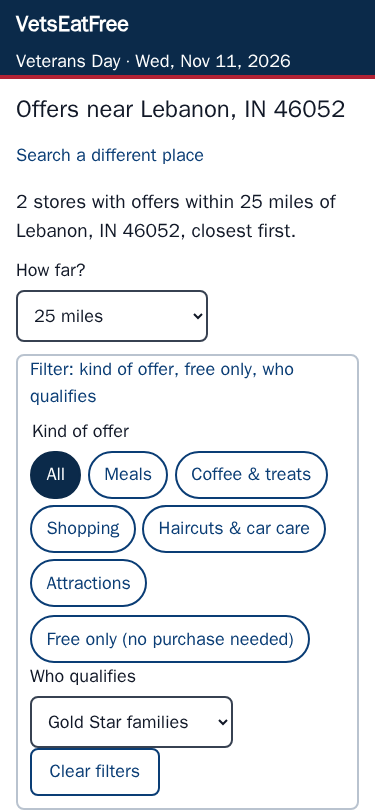
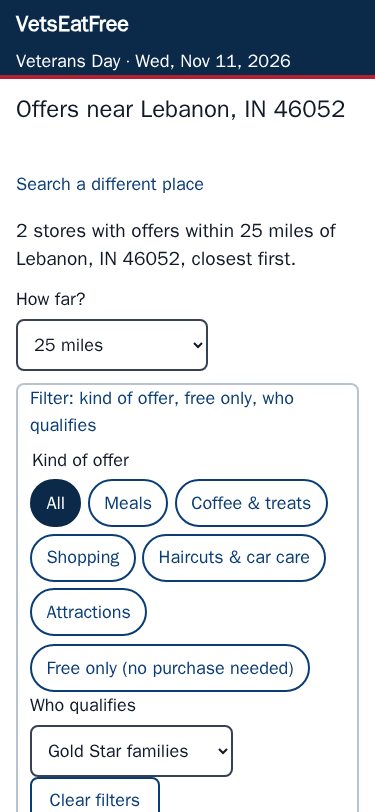
F18: 2.5 s results on Slow 4G, Lighthouse 100/100, WebKit and Safari 14 fallbacks

Changed region(s): [[0.0293, 0.1847, 0.968, 1.0], [0.9387, 0.431, 0.968, 0.4926], [0.8213, 0.7081, 0.8507, 0.7389]]

diff --git a/pipeline/static/css/site.css b/pipeline/static/css/site.css
@@ -54,7 +54,8 @@ body {
 img { max-width: 100%; }
 a { color: var(--link); text-underline-offset: 0.15em; }
 a:hover { text-decoration-thickness: 2px; }
-:focus-visible { outline: 3px solid var(--focus); outline-offset: 2px; }
+:focus { outline: 3px solid var(--focus); outline-offset: 2px; }
+:focus:not(:focus-visible) { outline: none; }  /* browsers without :focus-visible keep the ring */
 h1, h2, h3 { line-height: 1.2; margin: 0 0 0.5rem; }
 h1 { font-size: 1.75rem; }
 h2 { font-size: 1.4rem; margin-top: 0.5rem; }
@@ -77,10 +78,10 @@ p { margin: 0 0 0.75rem; }
 
 /* Header and footer */
 .site-header { background: var(--navy); color: var(--navy-fg); border-bottom: 4px solid var(--red); }
-.header-row { display: flex; flex-wrap: wrap; align-items: center; gap: 0 1rem; min-height: 3.5rem; }
+.header-row { display: flex; flex-wrap: wrap; align-items: center; min-height: 3.5rem; }
 .brand {
   color: var(--navy-fg); font-weight: 800; font-size: 1.35rem; text-decoration: none;
-  display: inline-flex; align-items: center; min-height: 48px;
+  display: inline-flex; align-items: center; min-height: 48px; margin-right: 1rem;
 }
 .brand-tag { font-size: 1.125rem; }
 main { display: block; padding-bottom: 2rem; }
@@ -95,7 +96,7 @@ main:focus { outline: none; }
 
 /* Buttons and inputs */
 .btn {
-  display: inline-flex; align-items: center; justify-content: center; gap: 0.4rem;
+  display: inline-flex; align-items: center; justify-content: center;
   min-height: 48px; min-width: 48px; padding: 0.5rem 1.1rem;
   font: inherit; font-weight: 700; border-radius: 8px; cursor: pointer;
   border: 2px solid var(--navy); text-decoration: none; text-align: center;
@@ -113,7 +114,8 @@ label { font-weight: 700; display: block; margin-bottom: 0.35rem; }
 /* Home */
 .hero { background: var(--card); padding: 1.25rem 0 1rem; border-bottom: 1px solid var(--line); }
 .lead { font-size: 1.2rem; }
-.search-row { display: flex; gap: 0.5rem; }
+.search-row { display: flex; }
+.search-row .btn { margin-left: 0.5rem; }
 .search-row input { flex: 1 1 auto; min-width: 0; }
 .search-row .btn { flex: 0 0 auto; }
 .no-js .js-only { display: none; }
@@ -137,7 +139,8 @@ label { font-weight: 700; display: block; margin-bottom: 0.35rem; }
   list-style: none; padding: 0; margin: 0;
   display: grid; grid-template-columns: repeat(auto-fill, minmax(14rem, 1fr)); gap: 0.25rem 1rem;
 }
-.link-grid li { display: flex; align-items: center; flex-wrap: wrap; gap: 0 0.4rem; min-height: 48px; }
+.link-grid li { display: flex; align-items: center; flex-wrap: wrap; min-height: 48px; }
+.link-grid .count { margin-left: 0.4rem; }
 .link-grid a { display: inline-flex; align-items: center; min-height: 48px; }
 .offer-list { list-style: none; padding: 0; margin: 0; }
 .offer-row { border-top: 1px solid var(--line); padding: 0.9rem 0; }
@@ -150,7 +153,8 @@ label { font-weight: 700; display: block; margin-bottom: 0.35rem; }
 .terms { color: var(--muted); }
 .links a { display: inline-flex; align-items: center; min-height: 48px; }
 .links .btn { margin-right: 0.75rem; }
-.chips { display: flex; flex-wrap: wrap; gap: 0.4rem; margin: 0.25rem 0 0.5rem; }
+.chips { display: flex; flex-wrap: wrap; margin: 0.25rem 0 0.1rem; }
+.chips > * { margin: 0 0.4rem 0.4rem 0; }
 .chip {
   display: inline-block; padding: 0.2rem 0.6rem; border-radius: 999px; font-size: 1.125rem;
   background: var(--chip); color: var(--chip-fg); border: 1px solid var(--line); line-height: 1.4;
@@ -165,7 +169,8 @@ label { font-weight: 700; display: block; margin-bottom: 0.35rem; }
 .facts dd { margin: 0.15rem 0 0; }
 .place-list { list-style: none; padding: 0; }
 .place-list li { border-top: 1px solid var(--line); padding: 0.75rem 0; }
-.actions { display: flex; flex-wrap: wrap; gap: 0.5rem; align-items: center; margin: 0.5rem 0 0; }
+.actions { display: flex; flex-wrap: wrap; align-items: center; margin: 0.5rem 0 0; }
+.actions > * { margin: 0 0.5rem 0.5rem 0; }
 .prose { padding-top: 1rem; }
 .prose ul { padding-left: 1.4rem; }
 .prose li { margin-bottom: 0.5rem; }
@@ -175,13 +180,24 @@ label { font-weight: 700; display: block; margin-bottom: 0.35rem; }
 .page-near h1 { margin-top: 1rem; }
 .page-near h1:focus { outline: none; }
 .search-box > summary { display: none; }
+/* While a search loads: search box folded, space kept for the results, so
+   nothing on screen moves when they arrive. */
+.loading-space { display: none; }
+.searching .loading-space { display: block; min-height: 120vh; }
+.searching #search-box > summary {
+  display: flex; align-items: center; min-height: 48px; font-weight: 700; color: var(--link);
+}
+.searching #search-box > form { display: none; }
+@media (max-width: 40rem) { .page-near h1 { min-height: 2.4em; } }
 .search-box.collapsible > summary {
   display: flex; align-items: center; min-height: 48px; cursor: pointer; font-weight: 700; color: var(--link);
 }
 .search-box.collapsible[open] { border: 2px solid var(--line); border-radius: 8px; padding: 0 0.75rem 0.75rem; }
 .status { min-height: 1.5em; margin: 0.75rem 0; font-weight: 600; }
 .summary { font-size: 1.2rem; font-weight: 700; margin-top: 0.5rem; }
-.controls { display: flex; flex-wrap: wrap; gap: 0.75rem 1.5rem; align-items: flex-start; margin: 0.75rem 0; }
+.controls { display: flex; flex-wrap: wrap; align-items: flex-start; margin: 0.75rem 0 0; }
+.controls > * { margin: 0 1.5rem 0.75rem 0; }
+.controls > .filters { margin-right: 0; }
 .control { min-width: 12rem; }
 .control select { width: auto; min-width: 12rem; }
 .filters { flex: 1 1 100%; border: 2px solid var(--line); border-radius: 8px; padding: 0 0.75rem; }
@@ -189,16 +205,15 @@ label { font-weight: 700; display: block; margin-bottom: 0.35rem; }
 .filters summary { cursor: pointer; font-weight: 700; min-height: 48px; display: flex; align-items: center; color: var(--link); }
 .filters fieldset { border: 0; padding: 0; margin: 0.5rem 0; }
 .filters legend { font-weight: 700; margin-bottom: 0.35rem; }
-.seg { display: flex; flex-wrap: wrap; gap: 0.4rem; }
+.seg { display: flex; flex-wrap: wrap; }
+.seg > * { margin: 0 0.4rem 0.4rem 0; }
 .seg-btn {
   font: inherit; min-height: 48px; padding: 0.4rem 0.9rem; border-radius: 999px; cursor: pointer;
   border: 2px solid var(--link); background: var(--bg); color: var(--link); font-weight: 600;
 }
 .seg-btn[aria-pressed="true"] { background: var(--navy); color: var(--navy-fg); border-color: var(--navy); }
-.check { display: flex; align-items: center; gap: 0.6rem; min-height: 48px; margin: 0.5rem 0; }
-.check input { width: 28px; height: 28px; margin: 0; flex: 0 0 auto; accent-color: var(--navy); }
-.check label { margin: 0; font-weight: 600; display: flex; align-items: center; min-height: 48px; }
-.tools { display: flex; flex-wrap: wrap; gap: 0.5rem; margin: 0.5rem 0 1rem; }
+.tools { display: flex; flex-wrap: wrap; margin: 0.5rem 0 0.5rem; }
+.tools > * { margin: 0 0.5rem 0.5rem 0; }
 .linkish {
   font: inherit; background: none; border: 0; padding: 0 0.15rem; color: var(--link);
   text-decoration: underline; cursor: pointer; min-height: 48px; font-weight: 700;
@@ -206,7 +221,8 @@ label { font-weight: 700; display: block; margin-bottom: 0.35rem; }
 .cards { list-style: none; padding: 0; margin: 0; }
 .card { border: 2px solid var(--line); border-radius: 10px; padding: 0.9rem 1rem; margin: 0 0 1rem; background: var(--bg); }
 .card.is-ended { opacity: 0.85; border-style: dashed; }
-.card-head { display: flex; justify-content: space-between; align-items: baseline; gap: 0.75rem; flex-wrap: wrap; }
+.card-head { display: flex; justify-content: space-between; align-items: baseline; flex-wrap: wrap; }
+.card-head h3 { margin-right: 0.75rem; }
 .card-head h3 { margin: 0; font-size: 1.3rem; }
 .miles { font-weight: 800; white-space: nowrap; }
 .branch { color: var(--muted); margin: 0.15rem 0 0.25rem; }
@@ -233,7 +249,7 @@ section[id="far"], section[id="everywhere"], section[id="find"] { margin-top: 1.
 @media (max-width: 30rem) {
   h1 { font-size: 1.5rem; }
   .search-row { flex-direction: column; }
-  .search-row .btn { width: 100%; }
+  .search-row .btn { width: 100%; margin: 0.5rem 0 0; }
 }
 @media print {
   .site-header, .skip, .no-print, .site-footer .footer-links { display: none !important; }

diff --git a/pipeline/static/js/near.js b/pipeline/static/js/near.js
@@ -27,6 +27,7 @@
     statusEl.textContent = text;
     statusEl.className = quiet ? "status sr-only" : "status";
   }
+  function doneLoading() { document.documentElement.classList.remove("searching"); }
   function foldSearch(fold) {
     if (fold) { box.classList.add("collapsible"); box.open = false; }
     else { box.open = true; }
@@ -332,7 +333,9 @@
     results.hidden = false;
     var tail = S.failed ? " Some places may be missing." : "";
     say("Found " + n + (n === 1 ? " store" : " stores") + " within " + S.radius + " miles." + tail, true);
-    if (fresh) { foldSearch(true); $("results-h").focus(); }
+    if (fresh) { foldSearch(true); }
+    doneLoading();
+    if (fresh) { $("results-h").focus(); }
   }
 
   function nextRadius() { return S.radius < 25 ? 25 : S.radius < 50 ? 50 : 100; }
@@ -393,6 +396,7 @@
     }
     say("");
     foldSearch(false);
+    doneLoading();
     showMsg(text);
     if (!S.origin) { results.hidden = true; }
     input.focus();

diff --git a/pipeline/static/js/app.js b/pipeline/static/js/app.js
@@ -49,6 +49,15 @@
 
   VEF.getJSON = function (url) {
     if (cache[url]) { return cache[url]; }
+    var pre = window.VEF_PRE && window.VEF_PRE[url];
+    if (pre) {
+      // Started early by the small script at the top of the results page.
+      delete window.VEF_PRE[url];
+      var early = pre.catch(function (status) { throw Err(status === 404 ? "missing" : "network"); });
+      cache[url] = early;
+      early.catch(function () { delete cache[url]; });
+      return early;
+    }
     var p = fetch(url, { credentials: "omit" }).then(function (r) {
       if (r.status === 404) { throw Err("missing"); }
       if (!r.ok) { throw Err("network"); }

diff --git a/tests/e2e/test_perf.py b/tests/e2e/test_perf.py
@@ -1,0 +1,105 @@
+"""F18: small and fast on old phones.
+
+- Home page under 60 KB transferred (gzipped), first visit.
+- Results usable within 3 s on Slow 4G: Chrome DevTools "Slow 4G" preset
+  (562.5 ms latency, 1.6 Mbps down, 750 kbps up) plus 4x CPU slowdown,
+  first visit with an empty cache and no service worker.
+- A search works in WebKit (Safari's engine).
+"""
+from __future__ import annotations
+
+import json
+import os
+import time
+from pathlib import Path
+
+import pytest
+
+from .conftest import url
+
+SLOW_4G = {"offline": False, "latency": 562.5, "downloadThroughput": 1.6e6 / 8,
+           "uploadThroughput": 750e3 / 8}
+RESULTS = Path(__file__).resolve().parents[2] / "evidence" / "F18-measurements.json"
+
+
+def record(key, value):
+    data = json.loads(RESULTS.read_text()) if RESULTS.exists() else {}
+    data[key] = value
+    RESULTS.write_text(json.dumps(data, indent=1))
+
+
+def cold_page(browser, throttle=True):
+    ctx = browser.new_context(viewport={"width": 375, "height": 812}, service_workers="block")
+    page = ctx.new_page()
+    cdp = ctx.new_cdp_session(page)
+    cdp.send("Network.enable")
+    cdp.send("Network.setCacheDisabled", {"cacheDisabled": False})
+    if throttle:
+        cdp.send("Network.emulateNetworkConditions", SLOW_4G)
+        cdp.send("Emulation.setCPUThrottlingRate", {"rate": 4})
+    return ctx, page, cdp
+
+
+def test_f18_home_under_60kb(browser):
+    ctx, page, cdp = cold_page(browser, throttle=False)
+    sizes = {}
+    cdp.on("Network.responseReceived", lambda e: sizes.__setitem__(e["requestId"], [e["response"]["url"], 0]))
+    cdp.on("Network.loadingFinished", lambda e: sizes.get(e["requestId"]) and sizes[e["requestId"]].__setitem__(1, e["encodedDataLength"]))
+    page.goto(url("/"), wait_until="networkidle")
+    total = sum(v[1] for v in sizes.values())
+    record("home_transfer_bytes", total)
+    record("home_files", {v[0].replace(url(""), ""): v[1] for v in sizes.values()})
+    ctx.close()
+    assert total < 60 * 1024, total
+
+
+def test_f18_results_on_slow_4g_direct_link(browser):
+    ctx, page, _ = cold_page(browser)
+    t0 = time.monotonic()
+    page.goto(url("/near/46052"), wait_until="commit")
+    page.wait_for_selector("#cards > li", timeout=30000)
+    ms = round((time.monotonic() - t0) * 1000)
+    record("slow4g_direct_link_ms", ms)
+    if os.environ.get("EVIDENCE") == "1":
+        page.screenshot(path="evidence/F18-slow4g.png")
+    ctx.close()
+    assert ms < 3000, ms
+
+
+def test_f18_results_on_slow_4g_from_home(browser):
+    ctx, page, _ = cold_page(browser)
+    page.goto(url("/"))
+    page.fill("#q", "46052")
+    t0 = time.monotonic()
+    page.click("button:has-text('Find offers')")
+    page.wait_for_selector("#cards > li", timeout=30000)
+    ms = round((time.monotonic() - t0) * 1000)
+    record("slow4g_search_from_home_ms", ms)
+    ctx.close()
+    assert ms < 3000, ms
+
+
+@pytest.fixture(scope="module")
+def webkit(pw):
+    b = pw.webkit.launch()
+    yield b
+    b.close()
+
+
+def test_f18_webkit_search(webkit):
+    ctx = webkit.new_context(viewport={"width": 375, "height": 812})
+    page = ctx.new_page()
+    errors = []
+    page.on("pageerror", lambda e: errors.append(str(e)))
+    page.goto(url("/"))
+    page.fill("#q", "46052")
+    page.click("button:has-text('Find offers')")
+    page.wait_for_selector("#cards > li", timeout=30000)
+    assert page.text_content("#results-h") == "Offers near Lebanon, IN 46052"
+    page.select_option("#radius", "10")
+    page.wait_for_function("() => document.getElementById('summary').textContent.includes('within 10 miles')")
+    if os.environ.get("EVIDENCE") == "1":
+        page.screenshot(path="evidence/F18-webkit.png")
+    record("webkit_version", webkit.version)
+    ctx.close()
+    assert errors == []

diff --git a/pipeline/site.py b/pipeline/site.py
@@ -15,6 +15,35 @@ from . import config
 # CSS can hide the search form for visitors without JavaScript.
 JS_FLAG_SCRIPT = "document.documentElement.className='js';"
 
+# Results page only: start the data downloads before the main scripts
+# arrive, so a slow phone saves two round trips. It asks for the same
+# by-index files the page would ask for anyway (offer list, map index, and
+# the ZIP or state file of the search), never the search itself.
+NEAR_PRELOAD_SCRIPT = (
+    "(function(){var P=window.VEF_PRE={};"
+    "function g(u){P[u]=fetch(u,{credentials:'omit'}).then(function(r){"
+    "if(!r.ok){throw r.status;}return r.json();});P[u].catch(function(){});}"
+    "g('/data/offers.json');g('/data/tiles/index.json');"
+    r"var q=null,h=0;try{var m=/^\/near\/(\d{5})\/?$/.exec(location.pathname);"
+    "if(m){q=m[1];}else if(!location.search){"
+    "var s=JSON.parse(sessionStorage.getItem('vef-pending')||localStorage.getItem('vef-last')||'null');"
+    "if(s&&s.q){q=String(s.q);}if(s){h=1;}}}catch(e){}"
+    # A search is about to run: start in the folded "searching" layout so
+    # nothing jumps when the results arrive.
+    "if(m||h||/[?&](city|zip|q)=/.test(location.search)){"
+    "document.documentElement.className+=' searching';}"
+    # Once the ZIP file and map index are in, start the 25-mile map squares.
+    "function T(la,lo,ix){var d=ix.deg,a=25/69,b=25/(69.17*Math.max(.05,Math.cos(la*Math.PI/180)));"
+    "for(var i=Math.floor((la-a)/d);i<=Math.floor((la+a)/d);i++){"
+    "for(var j=Math.floor((lo-b)/d);j<=Math.floor((lo+b)/d);j++){"
+    "if(ix.tiles[i+'_'+j]===1){g('/data/tiles/'+i+'_'+j+'.json');}}}}"
+    r"if(q){var z=/^\s*(\d{5})/.exec(q);if(z){var zu='/data/zip/'+z[1].slice(0,3)+'.json';g(zu);"
+    "Promise.all([P[zu],P['/data/tiles/index.json']]).then(function(x){var v=x[0][z[1]];"
+    "if(v&&v.length){T(v[0],v[1],x[1]);}}).catch(function(){});}"
+    r"else{var c=/,\s*([A-Za-z]{2})\s*$/.exec(q);if(c){g('/data/city/'+c[1].toLowerCase()+'.json');}}}"
+    "})();"
+)
+
 
 def csp_hash(script: str) -> str:
     digest = hashlib.sha256(script.encode("utf-8")).digest()
@@ -58,6 +87,7 @@ def make_env(assets: Assets, globals_: dict) -> Environment:
     env.globals.update(globals_)
     env.globals["asset"] = assets.url
     env.globals["js_flag_script"] = JS_FLAG_SCRIPT
+    env.globals["near_preload_script"] = NEAR_PRELOAD_SCRIPT
     env.filters["tojson_compact"] = lambda v: json.dumps(v, separators=(",", ":"), ensure_ascii=False)
     return env
 

diff --git a/pipeline/build.py b/pipeline/build.py
@@ -117,6 +117,7 @@ def build(offline: bool = False, quick: bool = False) -> None:
     log(f"pages: {npages}")
 
     csp = ("default-src 'self'; script-src 'self' " + site.csp_hash(site.JS_FLAG_SCRIPT)
+           + " " + site.csp_hash(site.NEAR_PRELOAD_SCRIPT)
            + "; style-src 'self'; img-src 'self' data:; connect-src 'self'; "
            "form-action 'self'; base-uri 'self'; frame-ancestors 'none'; object-src 'none'")
     (dist / "_headers").write_text(headers_file(csp), encoding="utf-8", newline="\n")

diff --git a/PROGRESS.md b/PROGRESS.md
@@ -218,3 +218,17 @@ Decisions:
   online). One tile blocked: other stores still show + "Some nearby places
   didn't load... Try again", which recovers all 353.
 - Evidence: evidence/F17.png. Tests: tests/e2e/test_errors.py (6).
+
+## F18: speed (passes)
+- Home: 8.4 KB transferred on a first visit (limit 60 KB).
+- 46052 on Chrome DevTools "Slow 4G" (562.5 ms, 1.6 Mbps) + 4x CPU, empty
+  cache: direct link 2.46 s, search from home 2.50 s (was 3.6 s). Fixes: a
+  hashed inline script at the top of /near/ starts the offer list, map index,
+  ZIP file and 25-mile map squares at once (it was stuck behind the CSS until
+  moved above the stylesheet link); a "searching" layout keeps the page from
+  jumping (CLS 0.33 -> 0).
+- Lighthouse 12 mobile: home, results, state = 100 performance / 100 a11y.
+- WebKit 27.2 search works. For Safari 14 / Chrome 90: JS is ES5; flex `gap`
+  replaced with margins (Safari 14.0 lacks it); :focus fallback for
+  :focus-visible.
+- Evidence: evidence/F18.png (+ F18-webkit.png, F18-measurements.json).

diff --git a/README.md b/README.md
@@ -24,6 +24,7 @@ and Census data into `data\cache\` (a minute or two); later starts reuse it.
 | Build offline from the cache | `docker compose run --rm build python -m pipeline.build --offline` |
 | Pipeline tests (pytest) | `docker compose run --rm build python -m pytest -q tests` |
 | Browser tests (Playwright + axe) | `docker compose --profile test run --rm e2e` |
+| Lighthouse mobile audits | `docker compose --profile test run --rm e2e sh tools/lighthouse.sh` |
 | Serve `dist/` only | `docker compose up -d web` |
 | Stop | `docker compose down` |
 | Trace random stores to their source | `docker compose run --rm build python tools/spot_check.py 20` |
